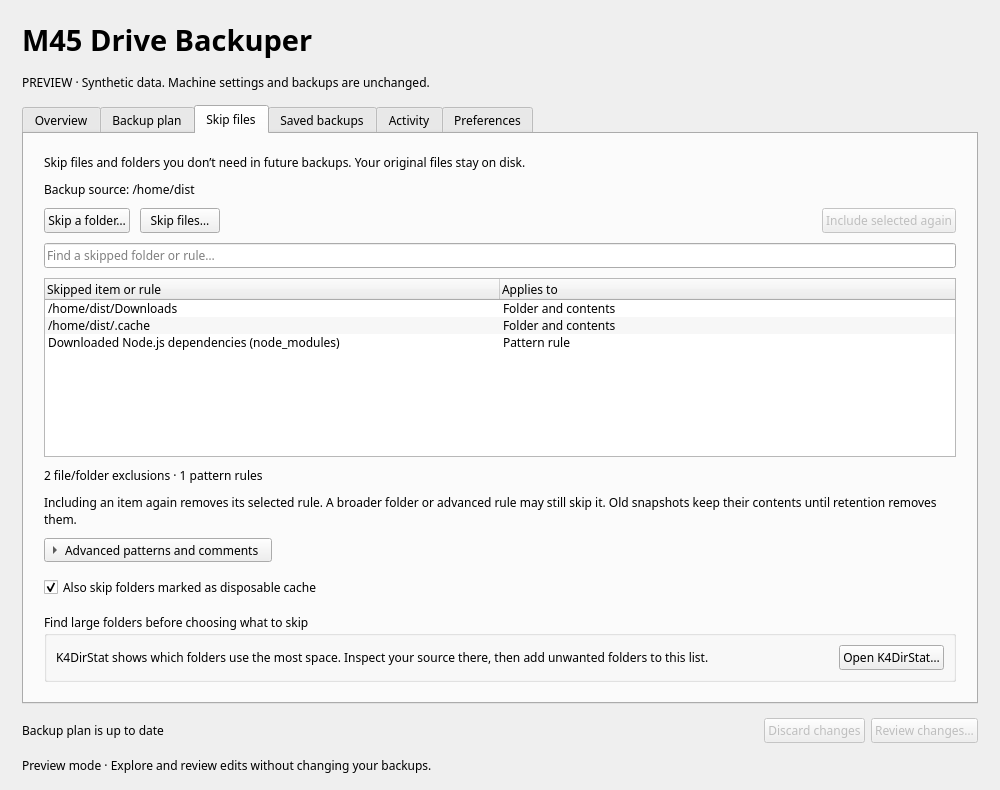
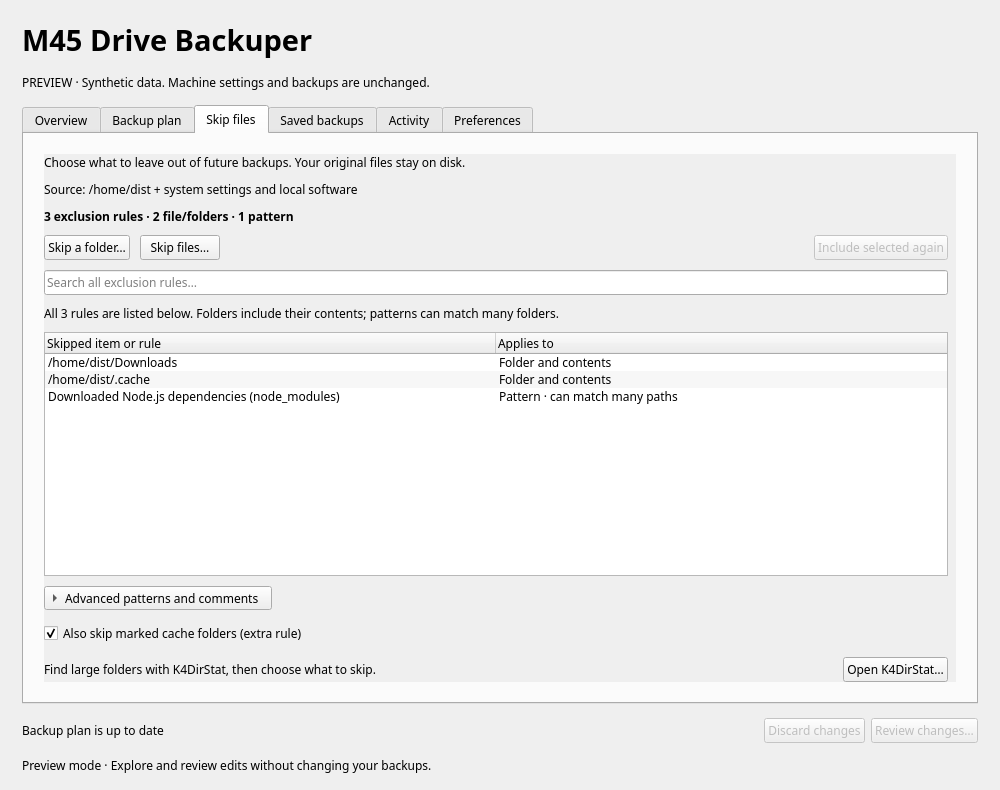
Clarify automatic recovery controls and exclusion counts
Expose synchronized recovery enable/disable controls in Backup plan and Preferences, explain automatic versus exported copies, and distinguish saved settings from pending edits. Keep total exclusion counts visible during filtering and improve scrolling for large fonts. Add UI regression coverage and package version 0.3.1.

diff --git a/src/window.cpp b/src/window.cpp
@@ -30,6 +30,7 @@
 #include <QProcess>
 #include <QPushButton>
 #include <QSaveFile>
+#include <QSet>
 #include <QScrollArea>
 #include <QSignalBlocker>
 #include <QSpinBox>
@@ -56,6 +57,16 @@ QIcon statusIcon(const QString &state) {
     return QIcon(pix);
 }
 QString stamp(const QString &text) { return text.isEmpty() ? "Unavailable" : text; }
+QSet<QString> exclusionRules(const QString &text) {
+    QSet<QString> rules;
+    for (const auto &line : text.split('\n')) if (!line.trimmed().isEmpty() && !line.trimmed().startsWith('#')) rules.insert(line.trimmed());
+    return rules;
+}
+QString exclusionChanges(const QString &saved, const QString &edited) {
+    const auto before = exclusionRules(saved), after = exclusionRules(edited);
+    const int added = (after-before).size(), removed = (before-after).size();
+    return added || removed ? QString("Exclusions: %1 added, %2 removed.").arg(added).arg(removed) : QString();
+}
 QString startupPath() { return QStandardPaths::writableLocation(QStandardPaths::ConfigLocation) + "/autostart/io.github.m45drivebackuper.desktop"; }
 QLabel *label(const QString &text = {}) {
     auto *l = new QLabel(text); l->setTextFormat(Qt::PlainText); l->setWordWrap(true); l->setTextInteractionFlags(Qt::TextSelectableByMouse); return l;
@@ -73,6 +84,9 @@ Window::Window(bool demo) : m_demo(demo), m_settings("M45 Drive Backuper", "M45 
     m_tabs = new QTabWidget; outer->addWidget(m_tabs, 1); setCentralWidget(body);
     QVBoxLayout *layout;
     page(m_tabs, "Overview", layout);
+    auto *overviewScroll = new QScrollArea; overviewScroll->setWidgetResizable(true); overviewScroll->setFrameShape(QFrame::NoFrame);
+    auto *overviewBody = new QWidget; auto *overviewLayout = new QVBoxLayout(overviewBody); overviewLayout->setContentsMargins(0,0,8,0); overviewLayout->setSpacing(14);
+    overviewScroll->setWidget(overviewBody); layout->addWidget(overviewScroll); layout = overviewLayout;
     m_status = label("Reading backup status…"); font = m_status->font(); font.setPointSize(17); font.setBold(true); m_status->setFont(font); layout->addWidget(m_status);
     m_summary = label(); layout->addWidget(m_summary);
     auto *group = new QGroupBox("Backup plan"); auto *form = new QFormLayout(group); form->setVerticalSpacing(16);
@@ -159,6 +173,9 @@ Window::Window(bool demo) : m_demo(demo), m_settings("M45 Drive Backuper", "M45 
     m_includeSystem = new QCheckBox("Also include system settings and local software"); m_includeSystem->setObjectName("includeSystem");
     m_includeSystem->setToolTip("Includes /etc, /usr/local, /root, scheduled jobs, package records, network and account settings. Other drives and service databases are not included.");
     settingsForm->addRow("",m_includeSystem);
+    m_packageRecovery = new QCheckBox("Include package recovery file in every backup"); m_packageRecovery->setObjectName("packageRecovery");
+    m_packageRecovery->setToolTip("Automatically refresh package names, versions and reinstall information, then store the file in the same backup snapshot. Applies to scheduled and manual backups. Save changes to enable or disable it.");
+    settingsForm->addRow("",m_packageRecovery);
     m_destinationKind = new QComboBox; m_destinationKind->setObjectName("destinationKind");
     m_destinationKind->addItem("A folder","folder"); m_destinationKind->addItem("This drive","drive"); settingsForm->addRow("Save backups to",m_destinationKind);
     auto *destinationRow = new QWidget; auto *destinationLayout = new QHBoxLayout(destinationRow); destinationLayout->setContentsMargins(0,0,0,0);
@@ -230,9 +247,6 @@ Window::Window(bool demo) : m_demo(demo), m_settings("M45 Drive Backuper", "M45 
     m_autoMount = new QCheckBox("Mount configured drives when needed"); m_autoMount->setObjectName("autoMount");
     m_autoMount->setToolTip("Before a backup, try existing /etc/fstab entries for the source and destination. UUIDs are checked before and after mounting. Drives must be connected and unlocked; new mount definitions are not created.");
     advancedForm->addRow("",m_autoMount);
-    m_packageRecovery = new QCheckBox("Save a software recovery list with each backup"); m_packageRecovery->setObjectName("packageRecovery");
-    m_packageRecovery->setToolTip("Records APT package selections and versions, Snap and Flatpak inventories, enabled services and timers. Reinstall APT packages from an exported recovery file in Preferences.");
-    advancedForm->addRow("",m_packageRecovery);
 
     auto spin = [] {auto *s = new QSpinBox; s->setRange(0,365); return s;};
     m_hourly = spin(); m_daily = spin(); m_weekly = spin(); m_monthly = spin();
@@ -254,10 +268,13 @@ Window::Window(bool demo) : m_demo(demo), m_settings("M45 Drive Backuper", "M45 
     connect(advancedToggle,&QToolButton::toggled,this,[advanced,advancedToggle](bool expanded) {advanced->setVisible(expanded); advancedToggle->setArrowType(expanded ? Qt::DownArrow : Qt::RightArrow);});
     layout->addStretch();
     page(m_tabs, "Skip files", layout); m_exclusionsPage = m_tabs->widget(4);
+    auto *skipScroll = new QScrollArea; skipScroll->setWidgetResizable(true); skipScroll->setFrameShape(QFrame::NoFrame);
+    auto *skipBody = new QWidget; auto *skipLayout = new QVBoxLayout(skipBody); skipLayout->setContentsMargins(0,0,8,0); skipLayout->setSpacing(12);
+    skipScroll->setWidget(skipBody); layout->addWidget(skipScroll); layout = skipLayout;
     m_excludes = new ExclusionEditor(m_demo); layout->addWidget(m_excludes,1);
-    m_skipCaches = new QCheckBox("Also skip folders marked as disposable cache"); m_skipCaches->setToolTip("Uses CACHEDIR.TAG markers. The file and folder rules above still apply."); layout->addWidget(m_skipCaches);
-    auto *analyzer = new QGroupBox("Find large folders before choosing what to skip"); auto *analyzerLayout = new QHBoxLayout(analyzer);
-    auto *analyzerText = label("K4DirStat shows which folders use the most space. Inspect your source there, then add unwanted folders to this list.");
+    m_skipCaches = new QCheckBox("Also skip marked cache folders (extra rule)"); m_skipCaches->setToolTip("This adds Borg’s CACHEDIR.TAG cache rule to the exclusion list above. It is separate from the displayed rule count."); layout->addWidget(m_skipCaches);
+    auto *analyzer = new QWidget; auto *analyzerLayout = new QHBoxLayout(analyzer); analyzerLayout->setContentsMargins(0,0,0,0);
+    auto *analyzerText = label("Find large folders with K4DirStat, then choose what to skip.");
     auto *openAnalyzer = new QPushButton("Open K4DirStat…"); openAnalyzer->setObjectName("openAnalyzer");
     analyzerLayout->addWidget(analyzerText,1); analyzerLayout->addWidget(openAnalyzer); layout->addWidget(analyzer);
     connect(openAnalyzer,&QPushButton::clicked,this,&Window::openAnalyzer);
@@ -267,6 +284,9 @@ Window::Window(bool demo) : m_demo(demo), m_settings("M45 Drive Backuper", "M45 
         updateEditState();
     });
     page(m_tabs, "Preferences", layout);
+    auto *preferencesScroll = new QScrollArea; preferencesScroll->setWidgetResizable(true); preferencesScroll->setFrameShape(QFrame::NoFrame);
+    auto *preferencesBody = new QWidget; auto *preferencesLayout = new QVBoxLayout(preferencesBody); preferencesLayout->setContentsMargins(0,0,8,0); preferencesLayout->setSpacing(14);
+    preferencesScroll->setWidget(preferencesBody); layout->addWidget(preferencesScroll); layout = preferencesLayout;
     layout->addWidget(label("Desktop monitoring"));
     m_startup = new QCheckBox("Start tray monitor at login"); m_notifications = new QCheckBox("Notify when backup status needs attention");
     bool startup = true; QFile startupFile(startupPath()); if (startupFile.open(QIODevice::ReadOnly)) startup = !startupFile.readAll().contains("Hidden=true");
@@ -275,9 +295,15 @@ Window::Window(bool demo) : m_demo(demo), m_settings("M45 Drive Backuper", "M45 
     connect(m_startup,&QCheckBox::toggled,this,&Window::setStartup);
     connect(m_notifications,&QCheckBox::toggled,this,[this](bool on) {if (!m_demo) m_settings.setValue("notifications",on);});
     auto *recoveryBox = new QGroupBox("Software recovery"); auto *recoveryLayout = new QVBoxLayout(recoveryBox);
-    recoveryLayout->addWidget(label("Save your package selections in one file. On a matching OS release, review a reinstall plan before installing APT packages. Snap, Flatpak and service lists are included for reference."));
+    m_recoveryStatus = label("Reading saved recovery settings…"); m_recoveryStatus->setObjectName("recoveryStatus");
+    auto recoveryFont = m_recoveryStatus->font(); recoveryFont.setBold(true); m_recoveryStatus->setFont(recoveryFont); recoveryLayout->addWidget(m_recoveryStatus);
+    m_recoveryToggle = new QCheckBox("Include package recovery file in every backup"); m_recoveryToggle->setObjectName("recoveryToggle"); recoveryLayout->addWidget(m_recoveryToggle);
+    recoveryLayout->addWidget(label("When enabled, every scheduled or manual backup refreshes the package list and saves it in that snapshot. Uncheck this option and Save changes to turn off automatic recovery creation. Existing backups and exported copies are kept."));
+    connect(m_packageRecovery,&QCheckBox::toggled,this,[this](bool checked) {QSignalBlocker blocker(m_recoveryToggle); m_recoveryToggle->setChecked(checked);});
+    connect(m_recoveryToggle,&QCheckBox::toggled,m_packageRecovery,&QCheckBox::setChecked);
+    recoveryLayout->addWidget(label("Export saves an extra portable copy now. Reinstall previews APT changes on a matching OS release. Snap, Flatpak and service lists are included for reference."));
     auto *recoveryButtons = new QHBoxLayout;
-    m_exportRecovery = new QPushButton("Export recovery file…"); m_exportRecovery->setObjectName("exportRecovery");
+    m_exportRecovery = new QPushButton("Export an extra recovery copy…"); m_exportRecovery->setObjectName("exportRecovery");
     m_restorePackages = new QPushButton("Reinstall from recovery file…"); m_restorePackages->setObjectName("restorePackages");
     recoveryButtons->addWidget(m_exportRecovery); recoveryButtons->addWidget(m_restorePackages); recoveryButtons->addStretch(); recoveryLayout->addLayout(recoveryButtons); layout->addWidget(recoveryBox);
     connect(m_exportRecovery,&QPushButton::clicked,this,[this] {action("recovery-export");});
@@ -329,7 +355,7 @@ Window::Window(bool demo) : m_demo(demo), m_settings("M45 Drive Backuper", "M45 
     if (m_demo) {
         m_snapshot = {{"collected_at",QDateTime::currentSecsSinceEpoch()}, {"mounted",false},
             {"actual_mounts",QJsonArray{"/media/dist/Backup-SSD"}},
-            {"config",QJsonObject{{"mountpoint","/media/dist/43b29217-193a-4f61-99ff-01a137b0c8f2"},{"uuid","43b29217-193a-4f61-99ff-01a137b0c8f2"},{"hours",6},{"hourly",4},{"daily",7},{"weekly",4},{"monthly",6},{"excludes","# Caches and regenerable downloads\npp:home/dist/Downloads\npp:home/dist/.cache\nsh:home/dist/**/node_modules"}}},
+            {"config",QJsonObject{{"mountpoint","/media/dist/43b29217-193a-4f61-99ff-01a137b0c8f2"},{"uuid","43b29217-193a-4f61-99ff-01a137b0c8f2"},{"hours",6},{"hourly",4},{"daily",7},{"weekly",4},{"monthly",6},{"include_system",true},{"package_recovery",true},{"excludes","# Caches and regenerable downloads\npp:home/dist/Downloads\npp:home/dist/.cache\nsh:home/dist/**/node_modules"}}},
             {"service",QJsonObject{{"ActiveState","failed"},{"Result","exit-code"},{"ExecMainExitTimestamp","Sun 2026-11-08 06:03:58 MST"}}},
             {"timer",QJsonObject{{"ActiveState","active"},{"NextElapseUSecRealtime","Sun 2026-11-08 12:03:44 MST"}}},
             {"logs","2026-11-08T06:03:58 Backup failed: expected backup filesystem is not mounted.\n2026-11-08T06:03:58 local-system-backup.service: Failed with result 'exit-code'."}};
@@ -489,6 +515,8 @@ void Window::setBusy(bool busy) {
     updateEditState();
     m_startup->setEnabled(!m_demo); m_notifications->setEnabled(!m_demo);
     m_exportRecovery->setEnabled(available); m_restorePackages->setEnabled(available);
+    m_recoveryToggle->setEnabled(m_loaded && !busy);
+    updateRecoveryStatus();
 }
 
 void Window::action(const QString &name, const QString &payload) {
@@ -554,6 +582,9 @@ void Window::saveSettings() {
         .arg(m_source->text(),m_repository->text(),m_interval->currentText(),m_excludes->summary());
     if (m_includeSystem->isChecked()) summary += "\n\nAlso includes system settings, local software, administrator files, scheduled jobs and package records.";
     if (m_packageRecovery->isChecked()) summary += "\nA software recovery list will be refreshed with each backup.";
+    else summary += "\nAutomatic package recovery will be disabled for future backups.";
+    const auto exclusionDelta = exclusionChanges(m_savedPlan.value("excludes").toString(),m_excludes->text());
+    if (!exclusionDelta.isEmpty()) summary += "\n\n" + exclusionDelta;
     if (data.value("repository") != m_savedPlan.value("repository")) summary += "\n\nExisting Borg backups in this folder will be reused, including the saved cleanup policy. An empty folder will be initialized as an unencrypted repository. Previous backup folders are kept.";
     bool retentionChanged = false;
     for (const auto &key : {"hourly","daily","weekly","monthly"}) retentionChanged |= data.value(key) != m_savedPlan.value(key);
@@ -583,14 +614,27 @@ void Window::closeEvent(QCloseEvent *event) {event->ignore(); if (m_demo || !QSy
 
 void Window::updateEditState() {
     if (m_loading || !m_loaded) return;
+    updateRecoveryStatus();
     const bool dirty = configuration() != m_savedPlan;
     const auto active = m_snapshot.value("service").toObject().value("ActiveState").toString();
     const bool running = active == "active" || active == "activating" || active == "deactivating";
     m_changes->setText(dirty ? (m_demo ? "Preview edits · no changes are written" : "Unsaved changes · backups still use the saved plan") : "Backup plan is up to date");
+    const auto exclusionDelta = exclusionChanges(m_savedPlan.value("excludes").toString(),m_excludes->text());
+    if (!exclusionDelta.isEmpty()) m_changes->setText(m_changes->text() + "\n" + exclusionDelta);
     m_save->setEnabled(dirty && !m_busy && !running && (m_demo || !m_snapshot.isEmpty()));
     m_discard->setEnabled(dirty && !m_busy);
     m_editBar->setVisible(dirty || m_tabs->currentIndex() == 1 || m_tabs->currentIndex() == 2);
     setWindowModified(dirty); setWindowTitle("M45 Drive Backuper[*]");
+}
+
+void Window::updateRecoveryStatus() {
+    const auto config = m_snapshot.value("config").toObject();
+    if (config.isEmpty()) {m_recoveryStatus->setText("Saved recovery status is unavailable. Check Overview."); return;}
+    const bool saved = config.value("package_recovery").toBool();
+    QString text = saved ? "Saved plan: package recovery is included in every backup." : "Saved plan: automatic package recovery is off.";
+    if (saved && m_snapshot.value("timer").toObject().value("ActiveState") != "active") text += "\nThe automatic backup schedule is currently paused.";
+    if (m_loaded && saved != m_packageRecovery->isChecked()) text += m_packageRecovery->isChecked() ? "\nUnsaved change: enable package recovery. Save changes to apply." : "\nUnsaved change: disable package recovery. Save changes to apply.";
+    m_recoveryStatus->setText(text);
 }
 
 void Window::renderLog() {

diff --git a/src/exclusions.cpp b/src/exclusions.cpp
@@ -13,23 +13,28 @@
 
 ExclusionEditor::ExclusionEditor(bool preview, QWidget *parent) : QWidget(parent), m_preview(preview) {
     auto *layout = new QVBoxLayout(this); layout->setContentsMargins(0,0,0,0); layout->setSpacing(10);
-    auto *intro = new QLabel("Skip files and folders you don’t need in future backups. Your original files stay on disk."); intro->setWordWrap(true); layout->addWidget(intro);
+    auto *intro = new QLabel("Choose what to leave out of future backups. Your original files stay on disk."); intro->setWordWrap(true); layout->addWidget(intro);
     m_sourceLabel = new QLabel; m_sourceLabel->setTextFormat(Qt::PlainText); m_sourceLabel->setWordWrap(true); layout->addWidget(m_sourceLabel);
+    m_summary = new QLabel; m_summary->setObjectName("exclusionSummary"); m_summary->setTextFormat(Qt::PlainText); m_summary->setWordWrap(true);
+    auto font = m_summary->font(); font.setBold(true); m_summary->setFont(font); layout->addWidget(m_summary);
     auto *buttons = new QHBoxLayout;
     auto *folder = new QPushButton("Skip a folder…"); folder->setObjectName("skipFolder");
     auto *file = new QPushButton("Skip files…");
     auto *remove = new QPushButton("Include selected again"); remove->setObjectName("includeAgain"); remove->setEnabled(false);
     buttons->addWidget(folder); buttons->addWidget(file); buttons->addStretch(); buttons->addWidget(remove); layout->addLayout(buttons);
     m_list = new QTreeWidget; m_list->setObjectName("exclusionList"); m_list->setHeaderLabels({"Skipped item or rule", "Applies to"});
+    m_list->setMinimumHeight(180);
     m_list->setRootIsDecorated(false); m_list->setAlternatingRowColors(true); m_list->setSelectionMode(QAbstractItemView::ExtendedSelection);
     m_list->header()->setSectionResizeMode(0,QHeaderView::Stretch); m_list->header()->setSectionResizeMode(1,QHeaderView::ResizeToContents);
-    m_filter = new QLineEdit; m_filter->setObjectName("exclusionFilter"); m_filter->setPlaceholderText("Find a skipped folder or rule…"); m_filter->setClearButtonEnabled(true); layout->addWidget(m_filter);
+    m_filter = new QLineEdit; m_filter->setObjectName("exclusionFilter"); m_filter->setPlaceholderText("Search all exclusion rules…"); m_filter->setClearButtonEnabled(true); layout->addWidget(m_filter);
+    m_matches = new QLabel; m_matches->setObjectName("exclusionMatches"); m_matches->setWordWrap(true); layout->addWidget(m_matches);
     layout->addWidget(m_list,1);
-    m_summary = new QLabel; m_summary->setTextFormat(Qt::PlainText); m_summary->setWordWrap(true); layout->addWidget(m_summary);
-    auto *note = new QLabel("Including an item again removes its selected rule. A broader folder or advanced rule may still skip it. Old snapshots keep their contents until retention removes them."); note->setWordWrap(true); layout->addWidget(note);
     auto *toggle = new QToolButton; toggle->setText("Advanced patterns and comments"); toggle->setCheckable(true); toggle->setArrowType(Qt::RightArrow); toggle->setToolButtonStyle(Qt::ToolButtonTextBesideIcon); layout->addWidget(toggle);
-    m_raw = new QPlainTextEdit; m_raw->setObjectName("exclusionPatterns"); m_raw->setPlaceholderText("One Borg exclusion pattern per line"); m_raw->setMaximumHeight(150); layout->addWidget(m_raw); m_raw->hide();
-    connect(toggle,&QToolButton::toggled,this,[this,toggle](bool open) {m_raw->setVisible(open); toggle->setArrowType(open ? Qt::DownArrow : Qt::RightArrow);});
+    auto *details = new QWidget; auto *detailLayout = new QVBoxLayout(details); detailLayout->setContentsMargins(0,0,0,0);
+    auto *note = new QLabel("Including an item again removes its selected rule. Another matching rule may still skip it. Changes affect future backups; existing snapshots keep their contents. Comments below are preserved and do not count as exclusion rules."); note->setWordWrap(true); detailLayout->addWidget(note);
+    m_raw = new QPlainTextEdit; m_raw->setObjectName("exclusionPatterns"); m_raw->setPlaceholderText("One Borg exclusion pattern per line"); m_raw->setMaximumHeight(150); detailLayout->addWidget(m_raw);
+    layout->addWidget(details); details->hide();
+    connect(toggle,&QToolButton::toggled,this,[details,toggle](bool open) {details->setVisible(open); toggle->setArrowType(open ? Qt::DownArrow : Qt::RightArrow);});
     connect(m_raw,&QPlainTextEdit::textChanged,this,[this] {refresh(); emit changed();});
     connect(m_filter,&QLineEdit::textChanged,this,&ExclusionEditor::refresh);
     connect(m_list,&QTreeWidget::itemSelectionChanged,this,[this,remove] {remove->setEnabled(!m_list->selectedItems().isEmpty());});
@@ -71,12 +76,13 @@ void ExclusionEditor::removeSelected() {
     setText(raw.join('\n'));
 }
 void ExclusionEditor::refresh() {
-    m_sourceLabel->setText("Backup source: " + m_source + (m_additionalSources.isEmpty() ? "" : "\nAlso included: " + m_additionalSources.join(", ")));
-    m_list->clear(); int paths = 0, rules = 0, outside = 0;
+    m_sourceLabel->setText("Source: " + m_source + (m_additionalSources.isEmpty() ? "" : " + system settings and local software"));
+    m_sourceLabel->setToolTip("Included sources:\n" + m_source + "\n" + m_additionalSources.join('\n'));
+    m_list->clear(); int paths = 0, rules = 0, outside = 0, visible = 0;
     const auto lines = text().split('\n');
     for (int i=0;i<lines.size();++i) {
         const auto rule = lines[i].trimmed(); if (rule.isEmpty() || rule.startsWith('#')) continue;
-        QString title = rule, applies = "Pattern rule";
+        QString title = rule, applies = "Pattern · can match many paths";
         if (rule.startsWith("pp:") || rule.startsWith("pf:")) {
             title = '/' + rule.mid(3); if (rule.mid(3).startsWith('/')) title = rule.mid(3);
             applies = rule.startsWith("pp:") ? "Folder and contents" : "This file"; ++paths;
@@ -91,6 +97,12 @@ void ExclusionEditor::refresh() {
         }
         auto *item = new QTreeWidgetItem(m_list,{title,applies}); item->setData(0,Qt::UserRole,i); item->setToolTip(0,rule); item->setToolTip(1,rule);
         item->setHidden(!m_filter->text().isEmpty() && !title.contains(m_filter->text(),Qt::CaseInsensitive) && !rule.contains(m_filter->text(),Qt::CaseInsensitive));
+        if (!item->isHidden()) ++visible;
     }
-    m_summary->setText(QString("%1 file/folder exclusions · %2 pattern rules%3").arg(paths).arg(rules).arg(outside ? QString(" · %1 paths outside the selected source").arg(outside) : QString()));
+    m_summary->setText(QString("%1 exclusion %2 · %3 file/folder%4 · %5 pattern%6%7")
+        .arg(paths+rules).arg(paths+rules == 1 ? "rule" : "rules").arg(paths).arg(paths == 1 ? "" : "s")
+        .arg(rules).arg(rules == 1 ? "" : "s").arg(outside ? QString(" · %1 paths outside the selected source").arg(outside) : QString()));
+    m_matches->setText(m_filter->text().isEmpty()
+        ? (paths+rules ? QString("All %1 rules are listed below. Folders include their contents; patterns can match many folders.").arg(paths+rules) : "No file or pattern rules. The marked-cache setting below is separate.")
+        : QString("Showing %1 of %2 rules. Clear the search to see all exclusions.").arg(visible).arg(paths+rules));
 }

diff --git a/tests/test_window.cpp b/tests/test_window.cpp
@@ -40,6 +40,7 @@ private slots:
         QVERIFY(advanced->isHidden());
         QVERIFY(!window.findChild<QComboBox *>("compression")->isVisible());
         QVERIFY(!window.findChild<QComboBox *>("backupType")->isVisible());
+        QVERIFY(window.findChild<QCheckBox *>("packageRecovery")->isVisible());
         const auto folderDestination = window.findChild<QLineEdit *>("repositoryPath")->text();
         window.findChild<QComboBox *>("destinationKind")->setCurrentIndex(1);
         auto *dest = window.findChild<QComboBox *>("destinationDrive"); dest->setCurrentIndex(1);
@@ -88,6 +89,38 @@ private slots:
         window.close(); QVERIFY(!window.isVisible());
         settings.sync(); QCOMPARE(settings.value("lastNotification").toString(),QString("sentinel"));
         QCOMPARE(settings.value("notifications").toBool(),false);
+    }
+    void recoveryControlsDistinguishSavedSettingsFromUnsavedEdits() {
+        Window window(true); window.Show(); window.selectPage(5); QTest::qWait(10);
+        auto *toggle=window.findChild<QCheckBox *>("recoveryToggle");
+        auto *plan=window.findChild<QCheckBox *>("packageRecovery");
+        auto *status=window.findChild<QLabel *>("recoveryStatus");
+        QVERIFY(toggle->isVisible()); QVERIFY(toggle->isChecked()); QVERIFY(plan->isChecked());
+        QVERIFY(status->text().contains("included in every backup"));
+        toggle->click(); QVERIFY(!plan->isChecked());
+        QVERIFY(status->text().contains("Saved plan: package recovery is included"));
+        QVERIFY(status->text().contains("Unsaved change: disable"));
+        QVERIFY(window.findChild<QPushButton *>("saveSettings")->isEnabled());
+        plan->setChecked(true); QVERIFY(toggle->isChecked()); QVERIFY(!status->text().contains("Unsaved"));
+        QVERIFY(!window.findChild<QPushButton *>("saveSettings")->isEnabled());
+    }
+    void exclusionCountSurvivesFilteringAndTheListStaysUsable() {
+        struct FontReset {QFont font; ~FontReset() {qApp->setFont(font);}} reset{qApp->font()};
+        auto large=reset.font; large.setPointSize(14); qApp->setFont(large);
+        Window window(true); window.resize(1000,790); window.Show(); window.selectPage(2);
+        auto *editor=window.findChild<ExclusionEditor *>();
+        QString rules; for (int i=0;i<17;++i) rules+=QString("pp:home/dist/folder%1\n").arg(i);
+        for (int i=0;i<11;++i) rules+=QString("sh:home/dist/**/cache%1\n").arg(i);
+        editor->setText(rules); QTest::qWait(20);
+        auto *list=editor->findChild<QTreeWidget *>(); QVERIFY(list->height()>=180);
+        QVERIFY2(window.height()<=790,qPrintable(QString("Window grew to %1 pixels").arg(window.height())));
+        QVERIFY(editor->summary().contains("28 exclusion rules"));
+        auto *search=editor->findChild<QLineEdit *>("exclusionFilter"); search->setText("no-match");
+        QVERIFY(editor->summary().contains("28 exclusion rules"));
+        QVERIFY(editor->findChild<QLabel *>("exclusionMatches")->text().contains("Showing 0 of 28"));
+        QCOMPARE(editor->text(),rules); search->clear();
+        QCOMPARE(list->topLevelItemCount(),28);
+        QVERIFY(editor->findChild<QLabel *>("exclusionMatches")->text().contains("All 28 rules"));
     }
     void exclusionsPreserveExistingRulesAndLiteralPaths() {
         ExclusionEditor editor; editor.setSource("/home/example");

diff --git a/src/window.h b/src/window.h
@@ -51,6 +51,8 @@ private:
     QComboBox *m_interval, *m_sourceKind, *m_sourceDrive, *m_destinationDrive, *m_destinationKind, *m_backupType, *m_compression, *m_quotaMode;
     QSpinBox *m_hourly, *m_daily, *m_weekly, *m_monthly, *m_reserve, *m_quota;
     QCheckBox *m_startup, *m_notifications, *m_skipCaches, *m_autoMount, *m_includeSystem, *m_packageRecovery;
+    QCheckBox *m_recoveryToggle;
+    QLabel *m_recoveryStatus;
     QPushButton *m_exportRecovery, *m_restorePackages;
     QPushButton *m_save, *m_run, *m_enable, *m_disable, *m_archiveRefresh, *m_mountDrives;
     void render();
@@ -62,6 +64,7 @@ private:
     void setBusy(bool busy);
     QJsonObject configuration() const;
     void updateEditState();
+    void updateRecoveryStatus();
     void renderLog();
     void showArchives(const QJsonArray &archives);
     void openAnalyzer();

diff --git a/src/exclusions.h b/src/exclusions.h
@@ -26,7 +26,7 @@ private:
     bool m_preview;
     QPlainTextEdit *m_raw;
     QTreeWidget *m_list;
-    QLabel *m_summary, *m_sourceLabel;
+    QLabel *m_summary, *m_sourceLabel, *m_matches;
     QLineEdit *m_filter;
     void refresh();
 };

diff --git a/README.md b/README.md
@@ -31,9 +31,9 @@ Storage limits are in GiB. “Leave free” is a preflight check after cleanup, 
 
 **Also include system settings and local software** adds `/etc`, `/usr/local`, `/root`, `/var/spool/cron`, `/var/lib/dpkg`, `/var/lib/apt/extended_states`, `/var/lib/NetworkManager`, `/var/lib/bluetooth`, and `/var/lib/AccountsService` when present. These may contain passwords and private keys and inherit the selected repository’s encryption. Other data drives and service databases are outside this selection. Skip files also accepts paths in these additional sources.
 
-**Save a software recovery list with each backup** refreshes `/var/lib/m45-drive-backuper/recovery/software-recovery.json` before archive creation. The recovery directory is included in that snapshot. The format follows the inspected M45 `restore-manifest` output convention: OS release, installed package versions, manual APT selections, held packages, Snap/Flatpak inventories, and enabled services/timers. Optional inventory failures are recorded as warnings rather than silently omitted. APT inventory failure stops the job before cleanup.
+**Include package recovery file in every backup** is visible in both **Backup plan** and **Preferences → Software recovery**. Both checkboxes edit the same setting; **Save changes** applies it. The saved-state message stays explicit while an enable/disable change is pending. When enabled, each backup refreshes `/var/lib/m45-drive-backuper/recovery/software-recovery.json` before archive creation. The recovery directory is included in that snapshot. The format follows the inspected M45 `restore-manifest` output convention: OS release, installed package versions, manual APT selections, held packages, Snap/Flatpak inventories, and enabled services/timers. Optional inventory failures are recorded as warnings rather than silently omitted. APT inventory failure stops the job before cleanup.
 
-Under **Preferences → Software recovery**, **Export recovery file…** creates a portable JSON file. **Reinstall from recovery file…** validates the file and OS release/architecture, runs an APT simulation, and shows its details before administrator authentication and installation. It installs manual selections and their dependencies from the current repositories, without allowing package removals. Review repository sources and signing keys from the `/etc` backup first. Saved versions are reference information; unavailable third-party packages need their original repository or installer. Held-package, Snap, Flatpak, service and timer lists are for separate review and restoration; they are not automatically applied. The file contains inventory, not user data or package binaries. Cancellation before installation makes no package changes; a package-manager failure during installation may leave partial changes, which the app reports.
+Under **Preferences → Software recovery**, **Export an extra recovery copy…** creates a separate portable JSON file. This export is optional; automatic backups already contain the recovery file when the saved setting is enabled. **Reinstall from recovery file…** validates the file and OS release/architecture, runs an APT simulation, and shows its details before administrator authentication and installation. It installs manual selections and their dependencies from the current repositories, without allowing package removals. Review repository sources and signing keys from the `/etc` backup first. Saved versions are reference information; unavailable third-party packages need their original repository or installer. Held-package, Snap, Flatpak, service and timer lists are for separate review and restoration; they are not automatically applied. The file contains inventory, not user data or package binaries. Cancellation before installation makes no package changes; a package-manager failure during installation may leave partial changes, which the app reports.
 
 ## Drive mounting and notifications
 
@@ -44,7 +44,7 @@ The tray shows running, completed and attention states. Notifications cover fail
 ## Choosing what to skip
 
 1. Choose a source folder or mounted drive in **Backup plan**.
-2. Open **Skip files**. Existing exclusions are already listed, including advanced rules.
+2. Open **Skip files**. Existing exclusions are already listed, including advanced rules. The total rule count stays visible while searching, with a separate count of matching rows. Folder rules cover their contents, and a single pattern can exclude many folders. The marked-cache checkbox adds a separate rule beyond this count.
 3. Use **Skip a folder…** or **Skip files…** to select unwanted data. A folder selection excludes that folder and its contents; a file selection matches that exact name, including characters such as `*` and `[`.
 4. Use **Open K4DirStat…** to inspect large folders, then return to choose exclusions. K4DirStat is optional and runs as your desktop user. See the [K4DirStat manual](https://manpages.ubuntu.com/manpages/noble/man1/k4dirstat.1.html).
 5. **Save changes…** shows a short plan summary and expandable technical details before authentication.
@@ -63,7 +63,7 @@ cmake -S . -B build -G Ninja -DCMAKE_BUILD_TYPE=Release -DCMAKE_INSTALL_PREFIX=/
 cmake --build build --parallel
 ctest --test-dir build --output-on-failure
 (cd build && cpack -G DEB)
-sudo apt install ./build/m45-drive-backuper_0.3.0_amd64.deb
+sudo apt install ./build/m45-drive-backuper_0.3.1_amd64.deb
 m45-drive-backuper --show
 ```
 
